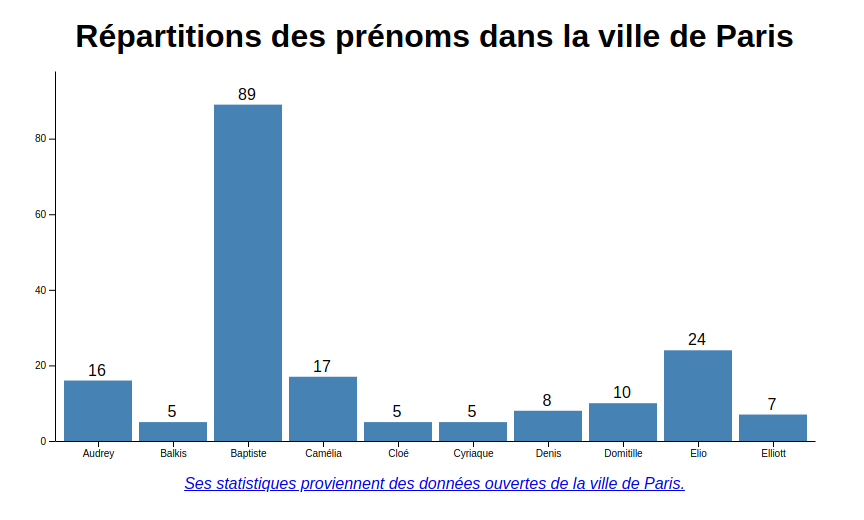
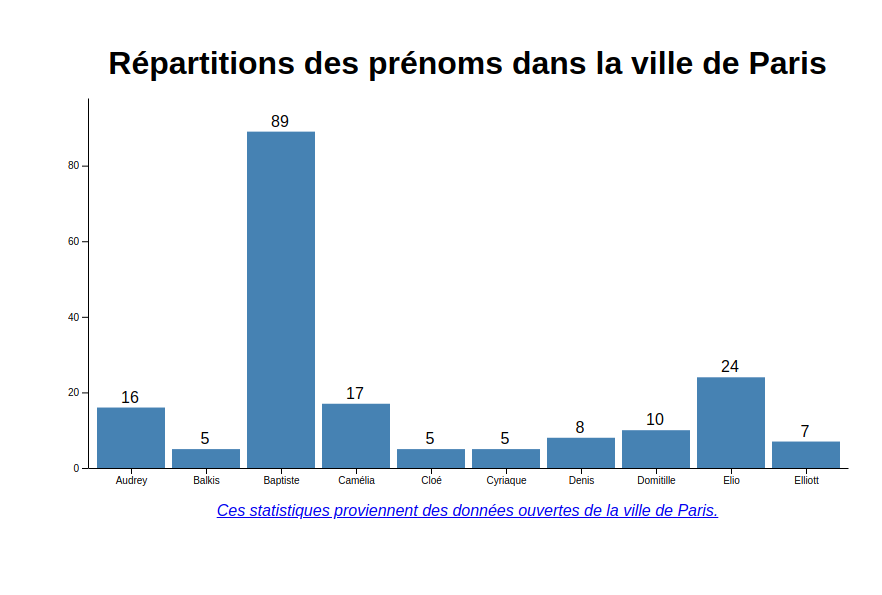
Fix typo

diff --git a/index.html b/index.html
@@ -13,7 +13,7 @@
     <div id="chart">
         <h1>Répartitions des prénoms dans la ville de Paris</h1>
         <svg></svg>
-        <p><a href="https://opendata.paris.fr/pages/home/" target="_blank">Ses statistiques proviennent des données ouvertes de la ville de Paris.</a></p>
+        <p><a href="https://opendata.paris.fr/pages/home/" target="_blank">Ces statistiques proviennent des données ouvertes de la ville de Paris.</a></p>
     </div>
 </body>
 </html>
